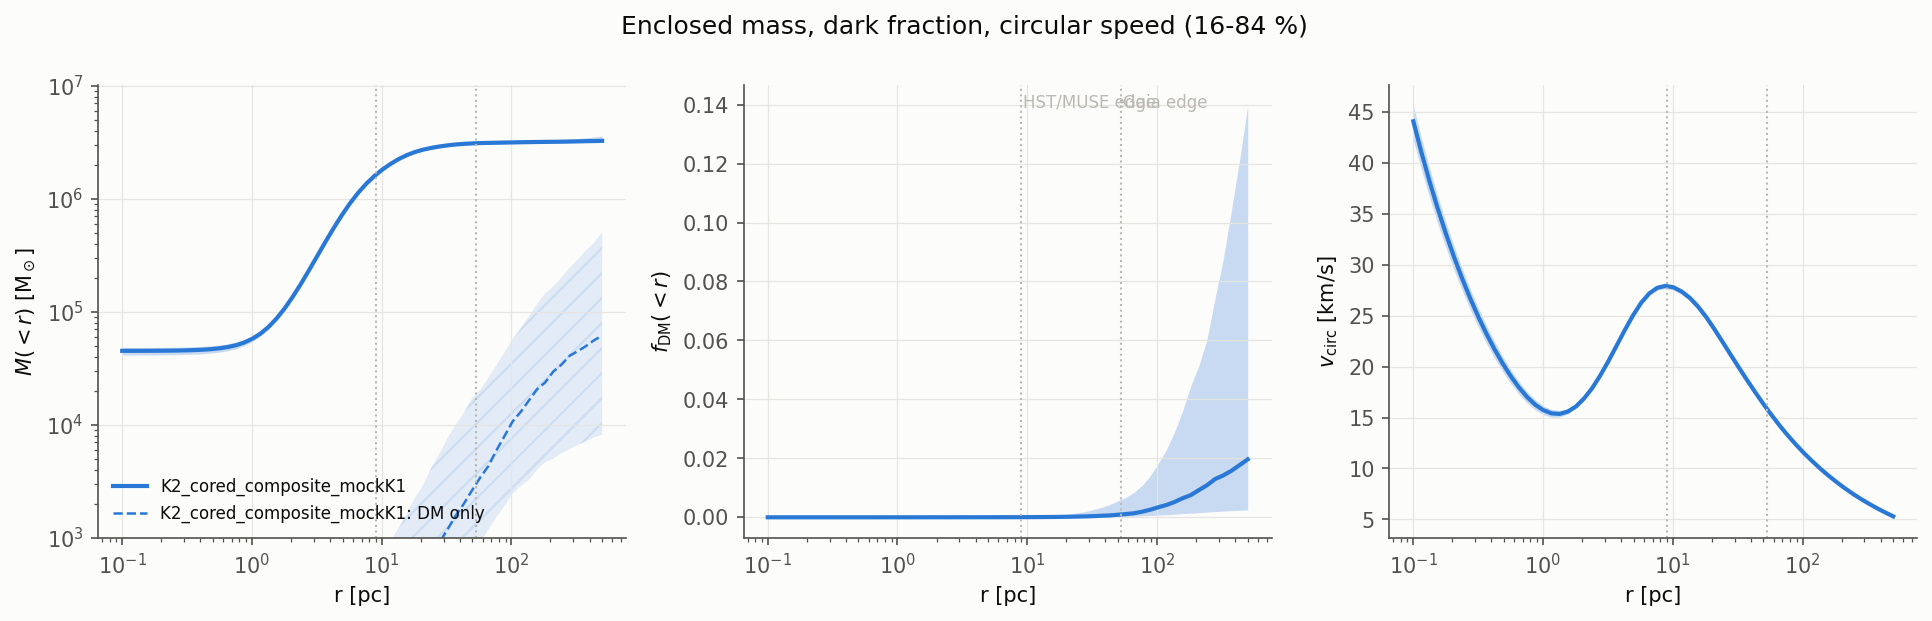
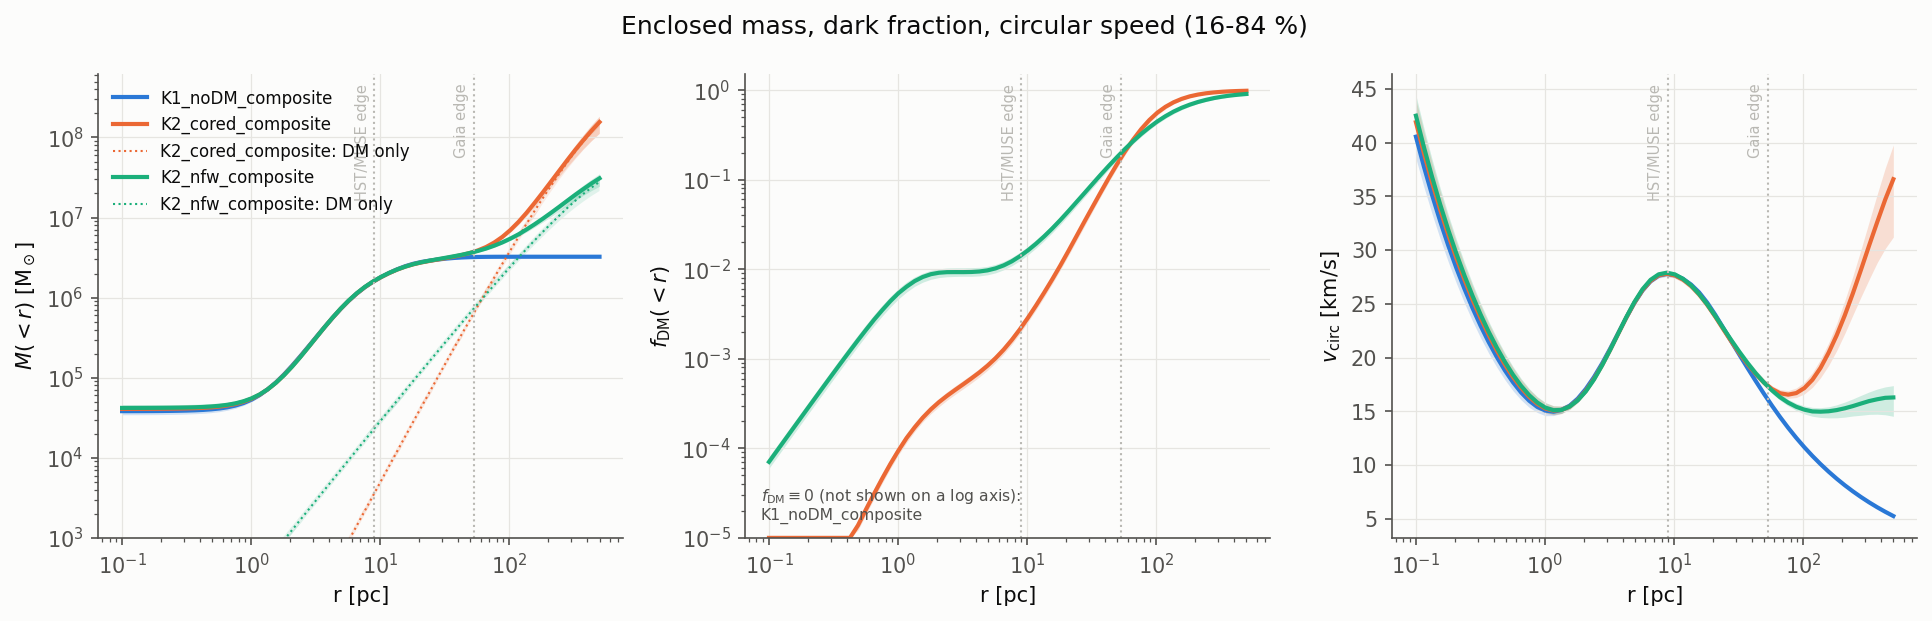
Log dark-fraction panel (no-DM runs named, not floored); colour by family, dash-dot for no-EDR3 variants

diff --git a/src/ocen_dm/plotting/fits.py b/src/ocen_dm/plotting/fits.py
@@ -11,7 +11,7 @@ import numpy as np
 
 from ..kinematics.fit import FitProblem
 from ..kinematics.likelihood import ARCSEC_PER_RAD
-from .style import apply as apply_style, SERIES, COLOR_FIELD as FIELD_GREY
+from .style import apply as apply_style, SERIES, COLOR_FIELD as FIELD_GREY, INK_SECONDARY
 
 _LABEL = {"los": r"$\sigma_{\rm LOS}$ [km/s]", "pmr": r"$\sigma_{\mu,R}$ [mas/yr]",
           "pmt": r"$\sigma_{\mu,T}$ [mas/yr]", "pmc": r"$\sigma_{\mu}$ [mas/yr]"}
@@ -80,38 +80,68 @@ def plot_profile_fit(problem: FitProblem, x: np.ndarray, path: Path, title: str 
     return path
 
 
-def plot_posterior_profiles(run_dirs: dict[str, Path], path: Path, title: str = "") -> Path:
+def plot_posterior_profiles(run_dirs: dict[str, Path], path: Path, title: str = "",
+                            f_dm_floor: float = 1e-5) -> Path:
     """Enclosed-mass, dark fraction and circular-speed bands from ``profiles.npz`` files.
 
     Parameters
     ----------
     run_dirs : dict
         ``label -> results/fits/<label>`` for each run to overlay (K1, K2 ...).
+    f_dm_floor : float
+        Bottom of the logarithmic dark-fraction axis. A no-DM (K1) run has
+        ``f_DM = 0`` identically, which no logarithmic axis can show: those runs
+        are named in the panel instead of being drawn at an arbitrary floor.
     """
     apply_style()
     fig, axes = plt.subplots(1, 3, figsize=(13, 4.2))
+    zero_f_dm: list[str] = []
+    # colour follows the model family, never the run order: a variant fitted to a
+    # subset of the data keeps its family's colour and is drawn dash-dotted, so the
+    # same colour never means two different models.
+    families: list[str] = []
+    for label in run_dirs:
+        fam = label.replace("_noEDR3", "").replace("_mockK1", "")
+        if fam not in families:
+            families.append(fam)
     for i, (label, d) in enumerate(run_dirs.items()):
         prof = np.load(Path(d) / "profiles.npz")
-        r = prof["r"]; color = SERIES[i % len(SERIES)]
+        fam = label.replace("_noEDR3", "").replace("_mockK1", "")
+        r = prof["r"]; color = SERIES[families.index(fam) % len(SERIES)]
+        style_kw = {"ls": "-." if "noEDR3" in label else "-"}
         for ax, key, ylabel, log in ((axes[0], "M_total", r"$M(<r)$ [M$_\odot$]", True),
-                                     (axes[1], "f_dm", r"$f_{\rm DM}(<r)$", False),
+                                     (axes[1], "f_dm", r"$f_{\rm DM}(<r)$", True),
                                      (axes[2], "v_circ", r"$v_{\rm circ}$ [km/s]", False)):
             lo, mid, hi = np.percentile(prof[key], [16, 50, 84], axis=0)
-            ax.fill_between(r, lo, hi, color=color, alpha=0.25, lw=0)
-            ax.plot(r, mid, color=color, lw=2, label=label)
+            if key == "f_dm":
+                if not np.any(hi > 0):                     # K1: no dark component at all
+                    zero_f_dm.append(label)
+                    ax.set_xscale("log"); ax.set_xlabel("r [pc]"); ax.set_ylabel(ylabel)
+                    ax.set_yscale("log")
+                    continue
+                lo, mid, hi = (np.maximum(v, f_dm_floor) for v in (lo, mid, hi))
+            ax.fill_between(r, lo, hi, color=color, alpha=0.2, lw=0)
+            ax.plot(r, mid, color=color, lw=2, label=label, **style_kw)
             ax.set_xscale("log"); ax.set_xlabel("r [pc]"); ax.set_ylabel(ylabel)
             if log:
                 ax.set_yscale("log")
         if "M_dm" in prof.files:
             lo, mid, hi = np.percentile(prof["M_dm"], [16, 50, 84], axis=0)
-            axes[0].fill_between(r, np.maximum(lo, 1), hi, color=color, alpha=0.12, lw=0, hatch="//")
-            axes[0].plot(r, np.maximum(mid, 1), color=color, lw=1.2, ls="--", label=f"{label}: DM only")
+            if np.any(hi > 0):
+                axes[0].fill_between(r, np.maximum(lo, 1), hi, color=color, alpha=0.12, lw=0, hatch="//")
+                axes[0].plot(r, np.maximum(mid, 1), color=color, lw=1.0, ls=":", label=f"{label}: DM only")
     axes[0].set_ylim(1e3, None); axes[0].legend(fontsize=8)
+    axes[1].set_ylim(f_dm_floor, 1.5)
+    if zero_f_dm:
+        axes[1].text(0.03, 0.03, "$f_{\\rm DM} \\equiv 0$ (not shown on a log axis):\n" + "\n".join(zero_f_dm),
+                     transform=axes[1].transAxes, fontsize=7.5, color=INK_SECONDARY, va="bottom")
     for R_hst, R_gaia in ((9.0, 53.0),):                      # data extents in pc at 5.43 kpc
         for ax in axes:
             ax.axvline(R_hst, color=FIELD_GREY, lw=1, ls=":"); ax.axvline(R_gaia, color=FIELD_GREY, lw=1, ls=":")
-    axes[1].text(9.2, 0.95, "HST/MUSE edge", fontsize=8, color=FIELD_GREY, transform=axes[1].get_xaxis_transform())
-    axes[1].text(55, 0.95, "Gaia edge", fontsize=8, color=FIELD_GREY, transform=axes[1].get_xaxis_transform())
+            ax.text(R_hst * 0.92, 0.98, "HST/MUSE edge", fontsize=7, color=FIELD_GREY,
+                    transform=ax.get_xaxis_transform(), rotation=90, va="top", ha="right")
+            ax.text(R_gaia * 0.92, 0.98, "Gaia edge", fontsize=7, color=FIELD_GREY,
+                    transform=ax.get_xaxis_transform(), rotation=90, va="top", ha="right")
     if title:
         fig.suptitle(title)
     fig.tight_layout()
